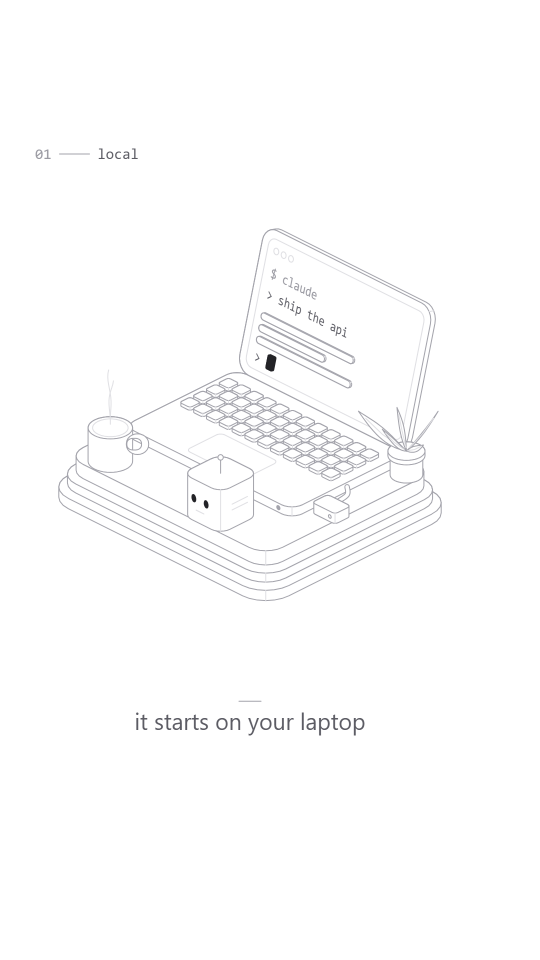
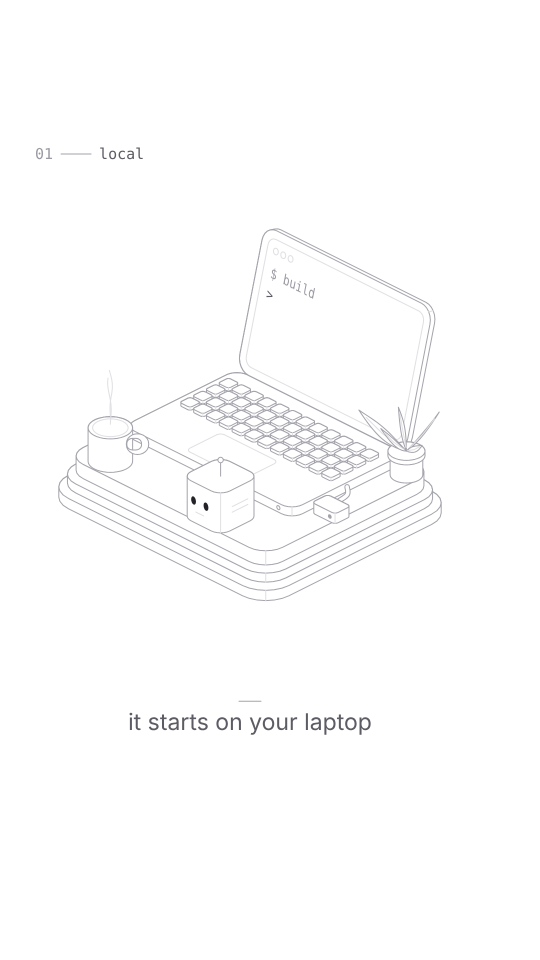
fix(умения): animacia — поправките от втория преглед (Разбивача, Кодаджията, Правния)
Разбивача (блокер): „офлайн“ Chromium пускаше WebRTC (TURN по TCP) покрай route() и offline.
Сега страницата и всяка рамка са без RTCPeerConnection, а мрежата на браузъра (WebRTC и DNS)
отива в несъществуващ прокси. Двата слоя са проверени поотделно, всеки спира връзката сам.
- пътищата се проверяват и след symlink (inside/insideAny по реалния път, висящ symlink → отказ);
  assets/ със symlink → отказ; renders/, frames/, review/, voice/ — само в парчето
- името на аудио пистата от страницата минава през name() — не пише извън renders/
- ffprobe и shotlog.py — само локални файлове; review.mjs: проектът на парчето вместо cwd, \ на Windows
- voice_words.py — моделът само от диска и при пряко пускане (local_files_only)
- Manim: без теглене извън lock файла; системните зависимости ги инсталира човекът

Правния: героят на crosshatch повтаряше марката на Anthropic (теракота + звездичка, „Claude Code“)
→ наш цвят, без звездичка, образците на crosshatch и isometric — наново от нашите демота.
Предпазители 5, 6, 8: образ и съгласие, чужда марка, без копие кадър по кадър,
marketing-claims-review, deep fake по AI Act чл. 50(4), dpa-review, маркировката по чл. 50(2),
обхват на лиценза за музика, MIT кодът в index.html.

Тестове: animacia.test.mjs 8 → 13 (WebRTC, symlink, пистата — паднаха преди поправката).
Всичките 7 демота: build → export → review; pixel пада на дъгата на звука еднакво и в горния код.
[…]

diff --git a/.claude/skills/animacia/styles/crosshatch/kit.js b/.claude/skills/animacia/styles/crosshatch/kit.js
@@ -92,19 +92,19 @@ function planInk(P, o = {}) {   // the plan: red pencil dashes, written on
   ctx.restore();
 }
 
-// ---- the hero: a terracotta dot with a cream asterisk and a pair of eyes; works on paper and on navy
+// ---- the hero: a sky-blue dot with a pair of eyes; works on paper and on navy
+// (Carbon Stealth: upstream drew a terracotta dot with an asterisk — Anthropic's mark; ours has neither)
 function dotHero(x, y, r, o = {}) {
   const key = o.key ?? 'hero', dark = !!o.dark;
   y += Math.sin(TT * TAU * 0.9 + key.length) * r * 0.04;                  // idle bob
   SPARK_AT = toScreen(x, y);
   if (!dark && o.shadow !== false) paint(ellipsePts(x + r * 0.55, y + r * 0.75, r * 1.08, r, 0, 28), { fill: 'rgba(58,36,23,0.3)', line: false, key: key + 'sh', tex: [{ k: 'hatch', a: 0.8, gap: 4, al: 0.6 }] });
   const P = ellipsePts(x, y, r, r, 0, 30);
-  if (dark) { ink(P, { closed: true, color: 'rgba(240,150,110,0.18)', w: r * 0.7, key: key + 'g' }); ink(P, { closed: true, color: 'rgba(200,208,240,0.2)', w: 16, key: key + 'g2' }); }
+  if (dark) { ink(P, { closed: true, color: 'rgba(156,196,214,0.22)', w: r * 0.7, key: key + 'g' }); ink(P, { closed: true, color: 'rgba(200,208,240,0.2)', w: 16, key: key + 'g2' }); }
   paint(P, {
-    fill: C.terra, key, line: dark ? C.peri : C.ink, w: dark ? 5 : Math.max(3, r * 0.08),
-    tex: [{ k: 'cross', c: C.orangeD, al: 0.5, gap: 5 }, { k: 'pencil', c: C.orangeL, al: 0.35, per: 60, dens: (px, py) => clamp((x - px + y - py) / r) }],
+    fill: o.fill ?? C.sky, key, line: dark ? C.peri : C.ink, w: dark ? 5 : Math.max(3, r * 0.08),
+    tex: [{ k: 'cross', c: C.skyD, al: 0.5, gap: 5 }, { k: 'pencil', c: C.skyL, al: 0.35, per: 60, dens: (px, py) => clamp((x - px + y - py) / r) }],
   });
-  asterisk(x, y - r * 0.38, r * 0.06, r * 0.26, 8, o.spin ?? TT * 0.5, C.cream, Math.max(2, r * 0.06));
   const blink = (B + key.length * 7) % 41 < 2, ey = y + r * 0.08;
   for (const s of [-1, 1]) {
     if (blink) ink([[x + s * r * 0.28 - r * 0.08, ey], [x + s * r * 0.28 + r * 0.08, ey]], { w: r * 0.06, color: C.ink, key: key + 'bl' + s, amt: 0.3 });
@@ -141,7 +141,7 @@ const STYLE = {
   },
   blob(P, c, key) { paint(P, { fill: c, key, w: 4, tex: [{ k: 'hatch', a: 0.8, gap: 6, al: 0.35 }, { k: 'pencil', c: '#fff6e0', al: 0.3, per: 80 }] }); },
   hero(x, y, r, o) { dotHero(x, y, r * 0.6, { ...o, key: o.key }); },
-  heroColor: C.terra,
+  heroColor: C.sky,
   heroPts: (x, y, r) => ellipsePts(x, y, r * 0.6, r * 0.6, 0, 96),
   post() { grain({ n: 2600 }); },
 };

diff --git a/.claude/skills/animacia/styles/isometric/kit.js b/.claude/skills/animacia/styles/isometric/kit.js
@@ -3,7 +3,7 @@
 //  constant hairlines (grey silhouettes and edges, lighter inner lines), faces filled white so nearer
 //  objects hide farther lines, rounded slabs with visible thickness, grids of repeated parts, and one
 //  tiny dark accent. Motion on 1s with spring settles. Built on kit/core.js (RNG, EZ, rrectPts, ellipsePts,
-//  resample, toScreen, TT / ev / DEFER / E0 / SPARK_AT). Studied from MIT-licensed isometric line figures.
+//  resample, toScreen, TT / ev / DEFER / E0 / SPARK_AT). Studied from isometric line figures described upstream as MIT-licensed (source not verified; nothing copied — Carbon Stealth).
 //  Needs from the piece head: W, H, FPS, CX (caption centre x). Optional: `const ISO_DARK = true` for the dark ground.
 //
 //  Hidden lines are painter's order: draw back to front (smaller x + y first, lower z first in a stack).

diff --git a/.claude/skills/animacia/styles/isometric/demo/src/scenes.js b/.claude/skills/animacia/styles/isometric/demo/src/scenes.js
@@ -61,7 +61,7 @@ function screenTerm(fp) {
   faceRR(fp, 12, 12, LP.w - 24, LP.lid - 24, 12);
   for (let i = 0; i < 3; i++) faceEll(fp, 28 + i * 14, 28, 4.5, 4.5, { stroke: PAL.inner });
   const typed = (s, t0, cps = 22) => Math.floor(clamp((TT - t0) * cps, 0, s.length));
-  isoText(fp, '$ claude', 26, 66, 20, { color: PAL.textD, count: typed('$ claude', cu.type) });
+  isoText(fp, '$ build', 26, 66, 20, { color: PAL.textD, count: typed('$ build', cu.type) });
   isoText(fp, '> ship the api', 26, 96, 20, { color: PAL.text, count: typed('> ship the api', cu.type + 0.38) });
   [170, 120, 200].forEach((L, i) => {   // output lines as hairline pills, like a figure's text
     const s = spring(TT, cu.type + 0.85 + i * 0.1, { k: 200, damp: 0.7 });

diff --git a/.claude/skills/animacia/scripts/measure/shotlog.py b/.claude/skills/animacia/scripts/measure/shotlog.py
@@ -9,10 +9,10 @@ import numpy as np
 
 S = 270
 def frames(v):
-    raw = subprocess.run(['ffmpeg', '-v', 'error', '-i', v, '-vf', f'scale={S}:{S}:flags=area,format=gray', '-f', 'rawvideo', '-'], capture_output=True).stdout
+    raw = subprocess.run(['ffmpeg', '-v', 'error', '-protocol_whitelist', 'file,pipe', '-i', v, '-vf', f'scale={S}:{S}:flags=area,format=gray', '-f', 'rawvideo', '-'], capture_output=True).stdout
     return np.frombuffer(raw, np.uint8).reshape(-1, S, S).astype(np.int16)
 def audio(v, sr=16000):
-    raw = subprocess.run(['ffmpeg', '-v', 'error', '-i', v, '-ac', '1', '-ar', str(sr), '-f', 's16le', '-'], capture_output=True).stdout
+    raw = subprocess.run(['ffmpeg', '-v', 'error', '-protocol_whitelist', 'file,pipe', '-i', v, '-ac', '1', '-ar', str(sr), '-f', 's16le', '-'], capture_output=True).stdout
     return np.frombuffer(raw, np.int16).astype(np.float32) / 32768, sr
 
 def runs(mask, minlen):
@@ -74,6 +74,6 @@ if __name__ == '__main__':
             sys.exit(f'not a local file: {v}')
         fps = want
         if not fps:
-            r = subprocess.run(['ffprobe', '-v', 'error', '-select_streams', 'v:0', '-show_entries', 'stream=r_frame_rate', '-of', 'csv=p=0', v], capture_output=True, text=True).stdout.strip()
+            r = subprocess.run(['ffprobe', '-protocol_whitelist', 'file,pipe', '-v', 'error', '-select_streams', 'v:0', '-show_entries', 'stream=r_frame_rate', '-of', 'csv=p=0', v], capture_output=True, text=True).stdout.strip()
             a_, b_ = (r.split('/') + ['1'])[:2]; fps = float(a_) / float(b_ or 1) if a_ else 24
         measure(v, max(1, round(fps)))   # frame indexing needs a whole fps (29.97 -> 30)

diff --git a/.claude/skills/animacia/scripts/voice_words.py b/.claude/skills/animacia/scripts/voice_words.py
@@ -2,7 +2,7 @@
 """Word timings for a voice-over, read from the audio itself (faster-whisper with a model already on disk (HF_HUB_OFFLINE=1 — nothing is downloaded), no API).
    usage: python scripts/voice_words.py <voice.wav> [--model small.en]
    prints JSON: [{"w": "word", "t0": 1.23, "t1": 1.51}, ...]
-Called by scripts/voice.mjs; it falls back to an estimate when faster-whisper isn't installed (pip install faster-whisper)."""
+Called by scripts/voice.mjs; it falls back to an estimate when faster-whisper isn't installed (the human installs faster-whisper)."""
 import json
 import sys
 
@@ -15,7 +15,7 @@ def main():
         model = args[i + 1]
         del args[i:i + 2]
     from faster_whisper import WhisperModel
-    m = WhisperModel(model, device='cpu', compute_type='int8')
+    m = WhisperModel(model, device='cpu', compute_type='int8', local_files_only=True)   # Carbon Stealth: само от диска, и при пряко пускане
     segs, _ = m.transcribe(args[0], word_timestamps=True, vad_filter=False, beam_size=5, language='en')
     out = []
     for s in segs:

diff --git a/.claude/skills/animacia/SKILL.md b/.claude/skills/animacia/SKILL.md
@@ -8,14 +8,19 @@ license: MIT — пълните текстове са в LICENSE (animate) и ma
 > `plugins/animate/skills/animate/`, MIT, Copyright (c) 2026 cth9191) и `awesome-skills/manim-skill` @ `f8479fa475aa`
 > (MIT, в `manim/`). Вписано по изрично решение на собственика (24.11.2026: „Ако има нещо нужно за направата на тези
 > клипове го вземи“) след два прегледа без изпълнение на чужд код (първи: Кодаджията + Разбивача; втори, върху
-> адаптираното копие: Разбивача + Правния Разбирач). **141 файла са сверени по sha256 с raw.githubusercontent при
+> адаптираното копие: Разбивача, Правния Разбирач и Кодаджията). **141 файла са сверени по sha256 с raw.githubusercontent при
 > закотвените commit-и** (`git fsck` чист). **Променени от Carbon Stealth VCC на 24.11.2026:** (1) не са вградени
 > инструментът за снимане на сайт `capture.mjs` (снимаше произволен адрес) и `examples/history-of-ai` (реални хора); (2) облачният глас
 > (ElevenLabs) е махнат — AI глас само от одобрен доставчик в ЕС, с етикет; (3) нов наш `scripts/safe.mjs`: Chromium без
 > мрежа, ffmpeg само с локални файлове, пътища само в папката на парчето, числа в граници, JSON безопасно в script;
 > (4) без `npm root -g`; гласовият модел е само локален (`HF_HUB_OFFLINE=1`), текстът за чернови глас — от файл;
 > (5) поправени субтитрите във вторичен формат и проверките на stem-овете; (6) инсталациите — само предложение към
-> човека, `uv sync --locked` за Manim. Тестове: `tools/video/animacia.test.mjs`.
+> човека, `uv sync --locked` за Manim; (7) след втория преглед: страницата е без WebRTC, а мрежата на браузъра
+> отива в несъществуващ прокси; пътищата се проверяват и след symlink; ffprobe и `shotlog.py` — само локални
+> файлове; имената на аудио пистите — без пътища; героят на crosshatch не носи марката на Anthropic (звездичка,
+> теракота), а образците на crosshatch и isometric са рендирани наново от нашите демота. Тестове:
+> `tools/video/animacia.test.mjs`. MIT покрива горния код; добавките на Carbon Stealth VCC (`scripts/safe.mjs`,
+> бележките) са наши.
 > Предимство имат: думите на собственика → доктрината (`agent-doctrine`) → нашите предпазители по-долу → текстът на умението.
 
 Собственик = агентът **AI Studio** (видео продукция); кратките клипове за мрежите и публикуването — **Социалджията**.
@@ -32,15 +37,24 @@ license: MIT — пълните текстове са в LICENSE (animate) и ma
 4. **Работната папка е `.tmp/animacia/`** в репото: `pieces/<име>/` и `styles/<име>/` са там — никога в корена,
    никога в commit. Пускане от корена: `node .claude/skills/animacia/scripts/build.mjs .tmp/animacia/pieces/<име>`
    (същото за `still`, `tile`, `storyboard`, `export`, `review`).
-5. **Активите са само наши или лицензирани.** Без чужди марки, лога и реални хора без съгласие; без лични данни в кадър
-   (снимки на продукт — с демо данни, дава ги човекът). Референциите на стил остават локални и не се цитират в клипа;
-   източникът и лицензът им се записват в `LOG.md`.
-6. **Глас и музика.** Собствен запис или одобрен доставчик в ЕС след `vendor-ai-review`; преди всяка платена
-   генерация — сумата и изричното „да“ на човека; без лични данни в текста. AI глас или картина се етикетира в кадъра
-   и в описанието („Глас: генериран с ИИ“, AI Act чл. 50). Музиката — само с лиценз.
+5. **Активите са само наши или лицензирани.** Реален човек — само с писмено съгласие (ОРЗД чл. 6(1)(а), чл. 7), и в
+   рисунка, щом се разпознава; без лични данни в кадър (снимки на продукт — с демо данни, дава ги човекът). Чужд
+   продукт — само фактическо споменаване по име: без лого, цветове или копиран интерфейс и без внушение за връзка или
+   одобрение. Стилът се учи, чуждото произведение не се копира: копие кадър по кадър на конкретна анимация не се
+   публикува. Референциите остават локални и не влизат в клипа; източникът и лицензът им — в `LOG.md`. Твърдения
+   за наш продукт минават през `marketing-claims-review` преди публикуване.
+6. **Глас и музика.** Собствен запис или одобрен доставчик в ЕС след `vendor-ai-review` и `dpa-review` (ОРЗД чл. 28;
+   подобработващ извън ЕС — само с механизъм по чл. 44–46); преди платена генерация — сумата и изричното „да“ на
+   човека; без лични данни в текста. Глас, който клонира или наподобява реален човек — само с неговото писмено
+   съгласие, пазено извън репото: това е deep fake (AI Act чл. 3(60)) и разкриването по чл. 50(4) е задължително.
+   Синтетичен глас, който не наподобява никого, също етикетираме („Глас: генериран с ИИ“) — над минимума. Не махаш
+   машинно четимата маркировка на доставчика (чл. 50(2)). Музиката — с лиценз, който покрива синхронизация във
+   видео, записа (master), платформите и търговската употреба; номерът му — в `LOG.md`.
 7. **Умението не се самопроменя.** Поуките отиват в `LOG.md` на клипа; промяна в `craft.md`, стил или kit — само
    като предложен diff за човека. Нов стил живее в `.tmp/animacia/styles/`, не в умението.
 8. **Доставката е път до файл.** Показваш `renders/share.mp4` и числата от `review.mjs`; не качваш и не публикуваш.
+   `index.html` носи MIT кода на kit-а: остава в `.tmp/`; излезе ли някога навън — с пълния текст от `LICENSE`
+   в коментар в началото.
 9. **Manim** (`manim/MANIM.md`) — за математика и алгоритми (площ под кривата, графики, доказателства). Средата я прави
    човекът: `uv sync --locked` от `manim/pyproject.toml` + `uv.lock`.
 

diff --git a/.claude/skills/THIRD_PARTY_NOTICES.md b/.claude/skills/THIRD_PARTY_NOTICES.md
@@ -46,7 +46,7 @@ karpathy-guidelines) е минала и двата прегледа (втори:
 | `archify-diagrams` | tt-a1i/archify @ `e37848822238` · цялата папка `archify/` (14.11; 187 от 191 сверени файла вградени, каналите за обновления и марки по мрежа махнати — виж бележката на файла и по-долу) | Apache-2.0 · Copyright (c) 2026 tt-a1i (Archify) + (c) 2025 Cocoon AI | Летописецът |
 | `model-na-zaplahite` | openai/skills @ `49f948faa925` · `skills/.curated/security-threat-model` (без `agents/openai.yaml`) (23.11) | Apache-2.0 · хранилище на OpenAI; носител не е посочен (`LICENSE.txt:189` е шаблонът), NOTICE в източника няма | Стражата |
 | `igrovo-studio` | openai/plugins @ `981b02c0c440` · `plugins/game-studio` — 9 умения слети в едно + 16 справочника; без `scripts/`, `assets/`, `.codex-plugin/`, `agents/openai.yaml` (23.11) | MIT — обявен само в `.codex-plugin/plugin.json` (`"license": "MIT"`, автор OpenAI; sha256 `edd750d7ab6d…`); LICENSE файл в източника няма — нашият `LICENSE` е стандартният текст, произходът е в `NOTICE` | Дизайнера (плейтест — Изпитателя) |
-| `animacia` (+ `manim/` справочник) | cth9191/animate @ `7e5eb56feb2d` · `plugins/animate/skills/animate/` без `tools/capture.mjs` и `examples/history-of-ai` (реални хора); `tools/` → `scripts/` + наш `scripts/safe.mjs` (браузър без мрежа, пътища, числа за ffmpeg, JSON в `<script>`) · awesome-skills/manim-skill @ `f8479fa475aa` → `manim/` (24.11) | MIT · cth9191 (`LICENSE`); MIT · awesome-skills (`manim/LICENSE`) | AI Studio |
+| `animacia` (+ `manim/` справочник) | cth9191/animate @ `7e5eb56feb2d` · `plugins/animate/skills/animate/` без `tools/capture.mjs` и `examples/history-of-ai` (реални хора); `tools/` → `scripts/` + наш `scripts/safe.mjs` (браузър без мрежа и без WebRTC, пътища и след symlink, числа за ffmpeg, JSON в `<script>`); героят на crosshatch — без звездичката и теракотата на Anthropic, образците на crosshatch и isometric — наново от нашите демота · awesome-skills/manim-skill @ `f8479fa475aa` → `manim/` (24.11) | MIT · cth9191 (`LICENSE`); MIT · awesome-skills (`manim/LICENSE`) | AI Studio |
 
 **Какво сменихме навсякъде:** описание на български; „Наши предпазители“ най-отгоре (те печелят пред
 останалия текст и оцеляват при компактиране); нищо не се изпълнява, инсталира или записва извън

diff --git a/.claude/skills/animacia/intake.md b/.claude/skills/animacia/intake.md
@@ -21,7 +21,7 @@ Ask only what you can't infer from the request. AskUserQuestion takes up to 4 qu
    - On-screen handwritten narration
 
 4. **The look?** *(skip the gallery when the request already names a style or brings references — go to new-style.md or the named style)* Build the gallery (`node scripts/gallery.mjs <out.png> [<project>/styles]`), show it, then ask:
-   - One of these: cut paper / crosshatch ink / riso print / sketchbook / math / pixel / isometric *(recommend the one that fits the subject: cut paper for histories and stories, crosshatch for Claude Code explainers, math for anything with equations or graphs, pixel for computing history, isometric for products, devices and infrastructure, riso or sketchbook for a softer editorial feel)*
+   - One of these: cut paper / crosshatch ink / riso print / sketchbook / math / pixel / isometric *(recommend the one that fits the subject: cut paper for histories and stories, crosshatch for software and agent explainers (Carbon Stealth), math for anything with equations or graphs, pixel for computing history, isometric for products, devices and infrastructure, riso or sketchbook for a softer editorial feel)*
    - A style they've made before (any `styles/<name>/` in their project)
    - My own references (the gallery's last tile, "custom") — links or files (videos, stills, a web page): follow [new-style.md](new-style.md); keep the media local and uncommitted
    - Surprise me
@@ -33,7 +33,7 @@ Ask only what you can't infer from the request. AskUserQuestion takes up to 4 qu
 
 6. **Music: do you have your own track?**
    - No — compose the score in code, cut to a 120 BPM grid *(recommended unless they have one)*
-   - Yes — a file (WAV / MP3 / M4A) they own or licensed. Ask for its path, the part to use (start time) and the BPM if they know it. Then SKILL.md → Music: `scripts/beats.mjs` maps its beats, the cuts follow the song, and export uses the track (the score adds sound effects only). Never fetch music from a site the user didn't point to.
+   - Yes — a file (WAV / MP3 / M4A) they own or licensed — the licence covers sync in video, the master recording, the platforms it goes to and commercial use; its number goes in `LOG.md` (Carbon Stealth). Ask for its path, the part to use (start time) and the BPM if they know it. Then SKILL.md → Music: `scripts/beats.mjs` maps its beats, the cuts follow the song, and export uses the track (the score adds sound effects only). Never fetch music from a site the user didn't point to.
 
 7. **Is it about a product, app or site — should the video show the real thing?** *(ask only when the subject is a product)*
    - Yes — real screenshots and the logo: ask them for the screenshots (our own product, demo data, no personal data) and any logo / brand files. SKILL.md → Assets. *(recommended for a product reel)*

diff --git a/.claude/skills/animacia/manim/references/setup-and-migration.md b/.claude/skills/animacia/manim/references/setup-and-migration.md
@@ -14,17 +14,17 @@ uv run python -m manim checkhealth
 
 Carbon Stealth: the environment is made by the human, only from the lock file (`uv sync --locked` in `manim/`); an agent installs nothing and never widens the pinned versions.
 
-On Windows use `.venv\Scripts\python.exe` instead. PowerShell can locate uv with `Get-Command uv`. A one-off run is `uv run --python 3.13 --with "manim==0.22.0" python -m manim --version`; it still needs the platform's native dependencies.
+On Windows use `.venv\Scripts\python.exe` instead. PowerShell can locate uv with `Get-Command uv`.
 
 PyAV handles ordinary media encoding; a standalone FFmpeg executable is not required for core Manim rendering since 0.19. This does **not** eliminate Cairo/Pango, fonts, optional TeX tools, or graphics requirements for OpenGL. FFmpeg/ffprobe can still be useful for external conversion and inspection.
 
-When native dependency installation is necessary, use the [official OS-specific instructions](https://docs.manim.community/en/stable/installation.html). On macOS the common prerequisites are `brew install cairo pango pkg-config`; on Ubuntu `libcairo2-dev libpango1.0-dev pkg-config` and build tools are common prerequisites. Diagnose the actual error before adding dependencies. A successful `checkhealth` does not verify all optional formula/font backends.
+When native dependency installation is necessary, the human installs them (Carbon Stealth: an agent installs nothing) following the [official OS-specific instructions](https://docs.manim.community/en/stable/installation.html). On macOS the common prerequisites are `brew install cairo pango pkg-config`; on Ubuntu `libcairo2-dev libpango1.0-dev pkg-config` and build tools are common prerequisites. Diagnose the actual error before adding dependencies. A successful `checkhealth` does not verify all optional formula/font backends.
 
 ## Math choices
 
 - `Text` / `MarkupText`: Pango; use for prose and simple numeric labels.
 - `Tex` / `MathTex`: require a working TeX toolchain, including the selected compiler and `dvisvgm`. Keep raw strings for LaTeX.
-- `Typst` / `MathTypst`: install `manim[typst]`; a full TeX distribution is unnecessary. Use Typst syntax. Current 0.22 public names are `Typst` and `MathTypst` (not `TypstMath`).
+- `Typst` / `MathTypst`: the locked `typst` extra (`uv sync --locked --extra typst`, run by the human); a full TeX distribution is unnecessary. Use Typst syntax. Current 0.22 public names are `Typst` and `MathTypst` (not `TypstMath`).
 
 For non-math scenes, missing TeX need not block work. For requested formulas, prefer a working supported backend rather than replacing mathematical typesetting with unreadable plain text.
 

diff --git a/.claude/skills/animacia/manim/references/mobjects.md b/.claude/skills/animacia/manim/references/mobjects.md
@@ -49,7 +49,7 @@ For a derivation, use named captures such as `MathTypst("{{ a^2 : left_a }} = {{
 
 Keep the full formula's typeset layout, select disjoint semantic groups, and animate those groups with explicit `ReplacementTransform` mappings. If adding the selected groups directly to the scene, keep their parent formula out of the scene so each glyph has one animation owner. Align successive formulas by a stable anchor such as the equals sign. See `examples/typst_derivation.py`: `TypstDerivation` for a runnable subtraction-on-both-sides and cancellation sequence using the existing optional Typst extra.
 
-Typst has its own language: passing LaTeX commands such as `\frac` is not a drop-in migration. Use `manim[typst]` and inspect font/math output. Plain numeric labels can use `Text(str(value))`; `Integer`, `DecimalNumber`, `Variable`, axes numbers, and default graph labels may otherwise invoke TeX. Pass explicit `Text` labels when creating a TeX-free graph:
+Typst has its own language: passing LaTeX commands such as `\frac` is not a drop-in migration. Use the locked `typst` extra and inspect font/math output. Plain numeric labels can use `Text(str(value))`; `Integer`, `DecimalNumber`, `Variable`, axes numbers, and default graph labels may otherwise invoke TeX. Pass explicit `Text` labels when creating a TeX-free graph:
 
 ```python
 axes = Axes(x_range=[-3, 3, 1], y_range=[0, 9, 3], x_length=7, y_length=4)

diff --git a/.claude/skills/animacia/styles/crosshatch/STYLE.md b/.claude/skills/animacia/styles/crosshatch/STYLE.md
@@ -2,6 +2,8 @@
 
 ![sample](sample.png)
 
+*(Carbon Stealth)* The style was built around Claude Code, a trade mark of Anthropic. In our pieces: no asterisk logomark, no terracotta `#d97757` hero, no "Claude Code" wordmark or copied interface — the hero has our own colour (sky by default). The sample is re-rendered from `demo/`.
+
 A sketchy ink line that boils on 2s, crosshatch and coloured-pencil shading clipped inside shapes, stipple, paper grain. Warm cream paper and wood by day; navy "inside the computer" worlds with periwinkle lines and glowing accents.
 
 ## Palette
@@ -28,7 +30,7 @@ A sketchy ink line that boils on 2s, crosshatch and coloured-pencil shading clip
 2. **The line boils** — never a perfectly still stroke in a held frame.
 3. **Tool-call pills (`toolPill('Read', 'notes.md', …)`) make agent steps readable** — and must be true.
 4. **The dark world and the paper world look different on a contact sheet:** navy + periwinkle lines inside the machine, cream + ink outside.
-5. **The hero dot keeps its terracotta and asterisk** in both worlds (it gets a glow in the dark).
+5. **The hero dot keeps its colour** in both worlds (sky by default, `o.fill` to change it; it gets a glow in the dark).
 6. **World-anchored textures** when the camera pans (texture keys don't depend on screen position).
 
 ## Kit API

diff --git a/.claude/skills/animacia/styles/isometric/STYLE.md b/.claude/skills/animacia/styles/isometric/STYLE.md
@@ -2,7 +2,7 @@
 
 ![sample](sample.png)
 
-Calm, precise product illustration: objects in 2:1 dimetric isometric on a white ground, drawn only with constant hairlines. Grey silhouettes and edges, lighter inner and receding lines, faces filled white so nearer objects hide farther lines. Rounded slabs and plates with visible thickness, stacked layers, grids of repeated parts (keys, vents, pillars, ports), and one tiny dark accent per frame. Motion on 1s with spring settles; otherwise still. Studied from MIT-licensed isometric line figures (references kept local, never copied).
+Calm, precise product illustration: objects in 2:1 dimetric isometric on a white ground, drawn only with constant hairlines. Grey silhouettes and edges, lighter inner and receding lines, faces filled white so nearer objects hide farther lines. Rounded slabs and plates with visible thickness, stacked layers, grids of repeated parts (keys, vents, pillars, ports), and one tiny dark accent per frame. Motion on 1s with spring settles; otherwise still. Studied from isometric line figures described upstream as MIT-licensed (source not recorded or verified; references not shipped, nothing copied — Carbon Stealth).
 
 ## Measured (from the reference figures' live SVG, and screenshots of them)
 
